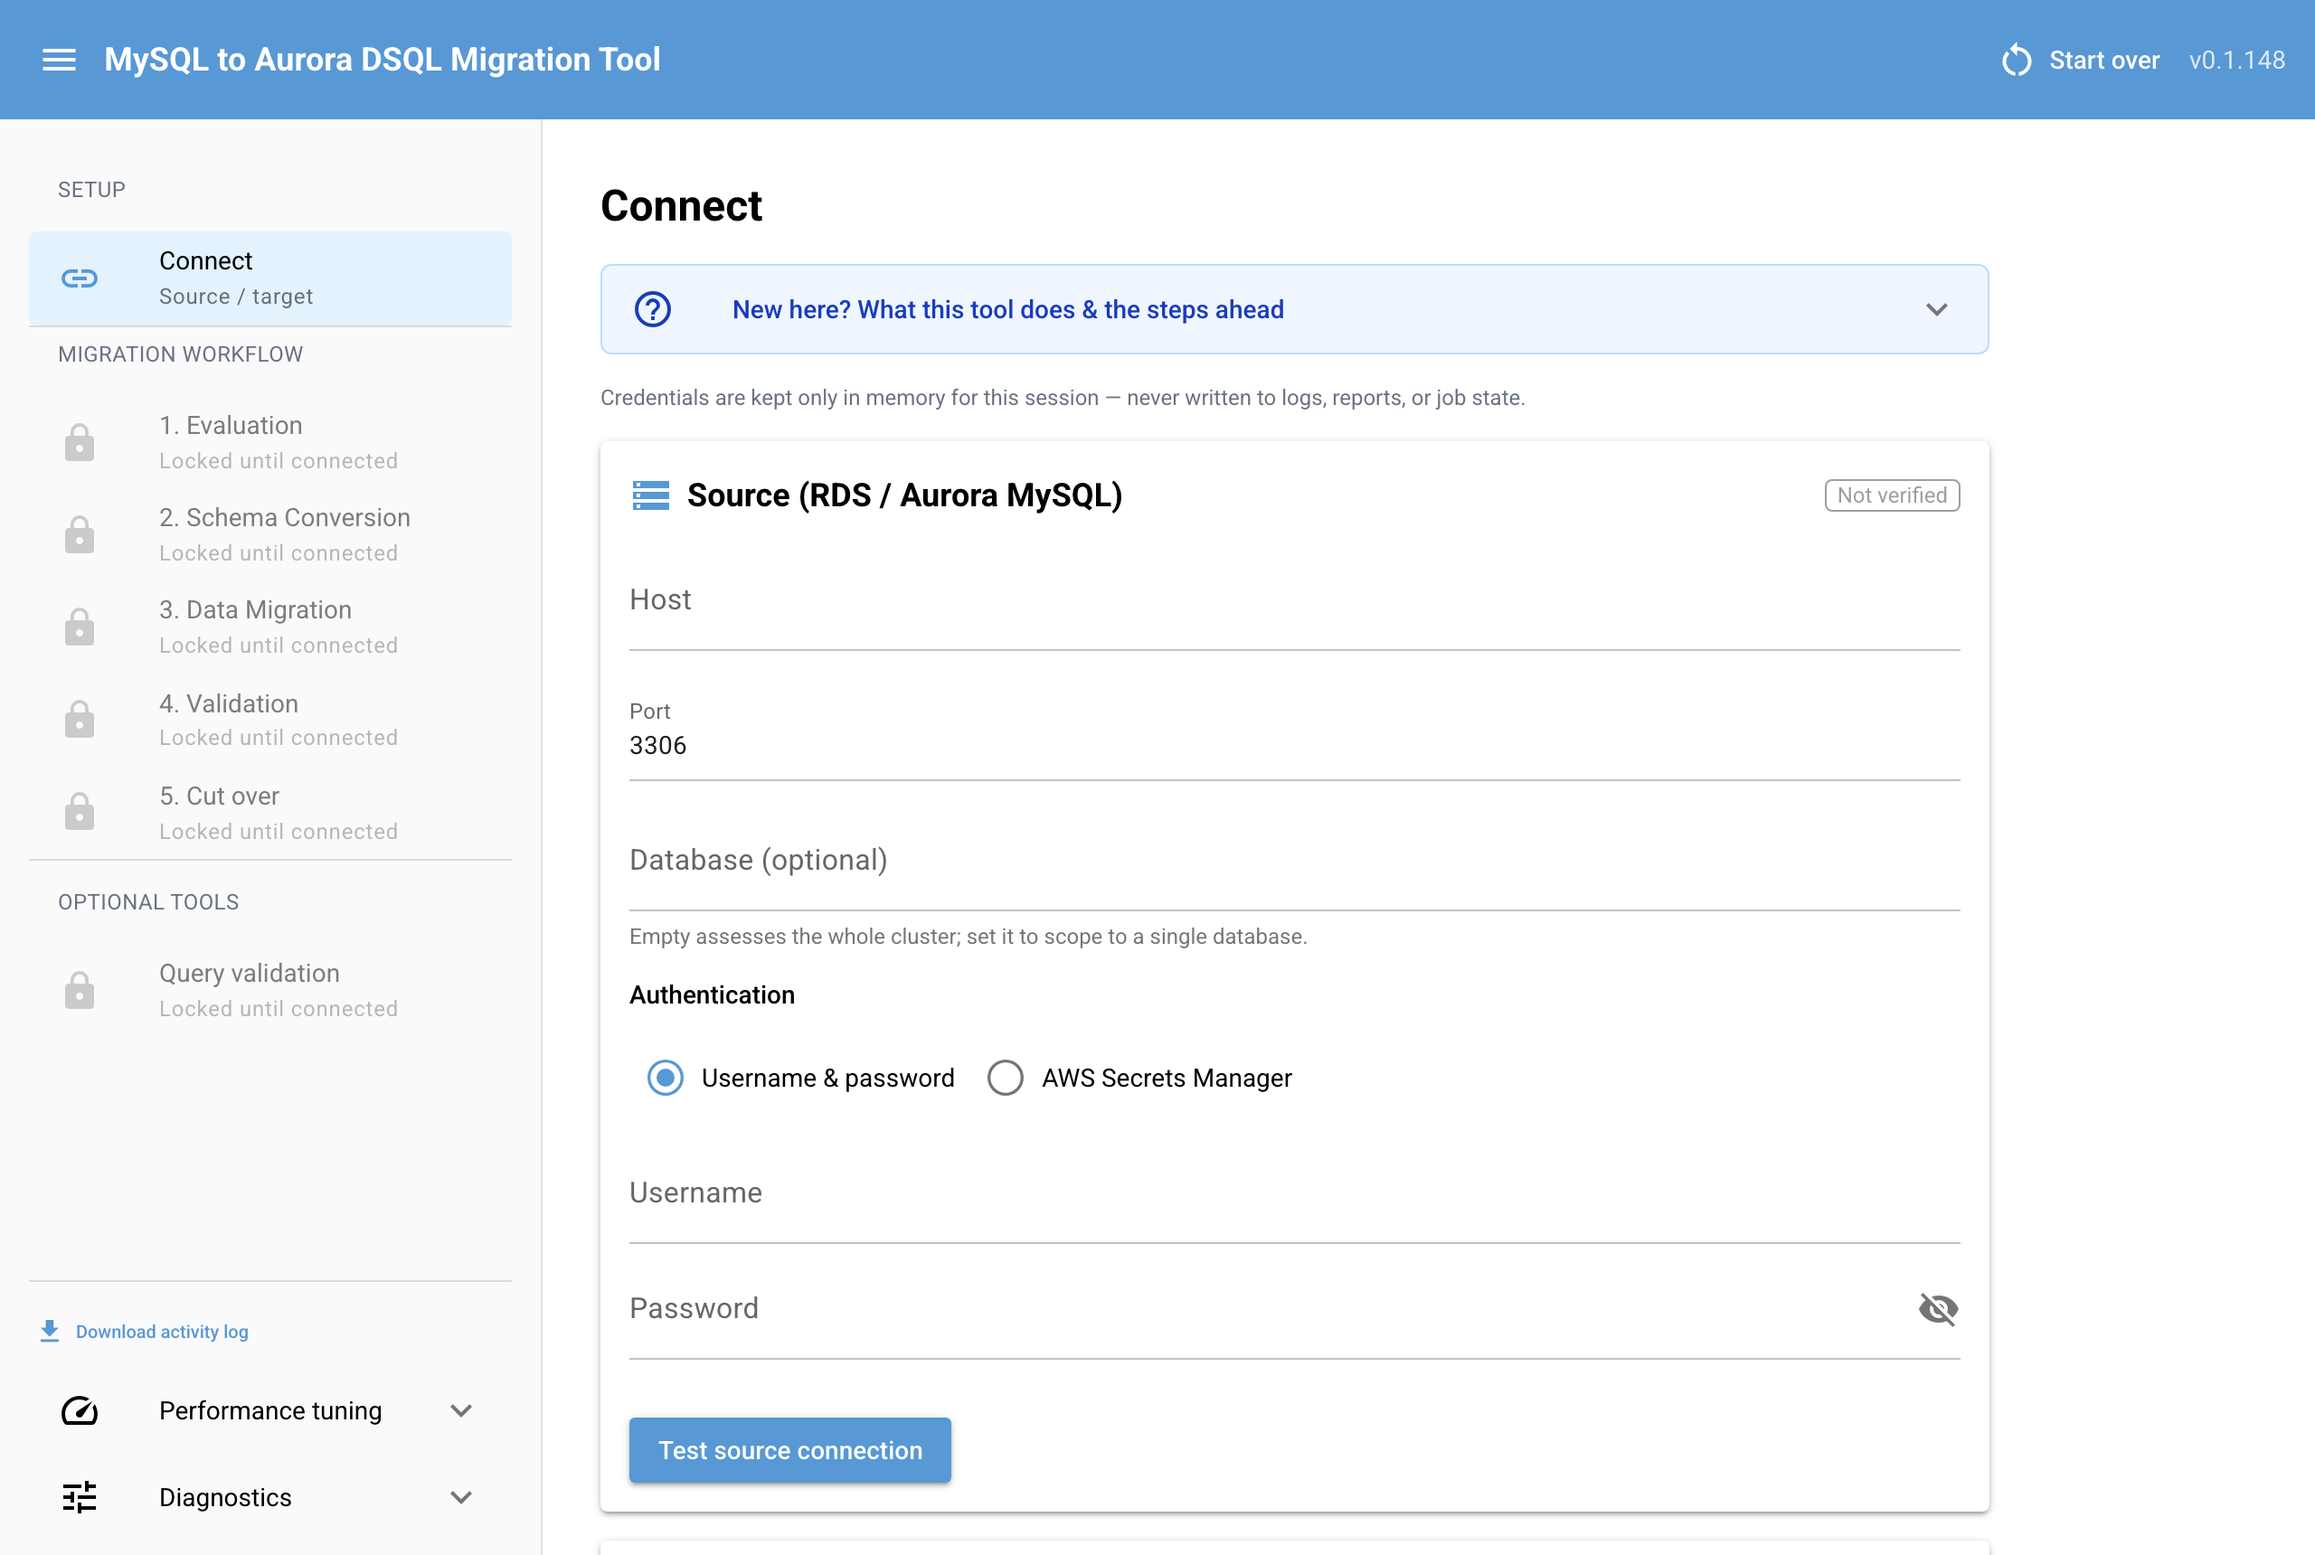
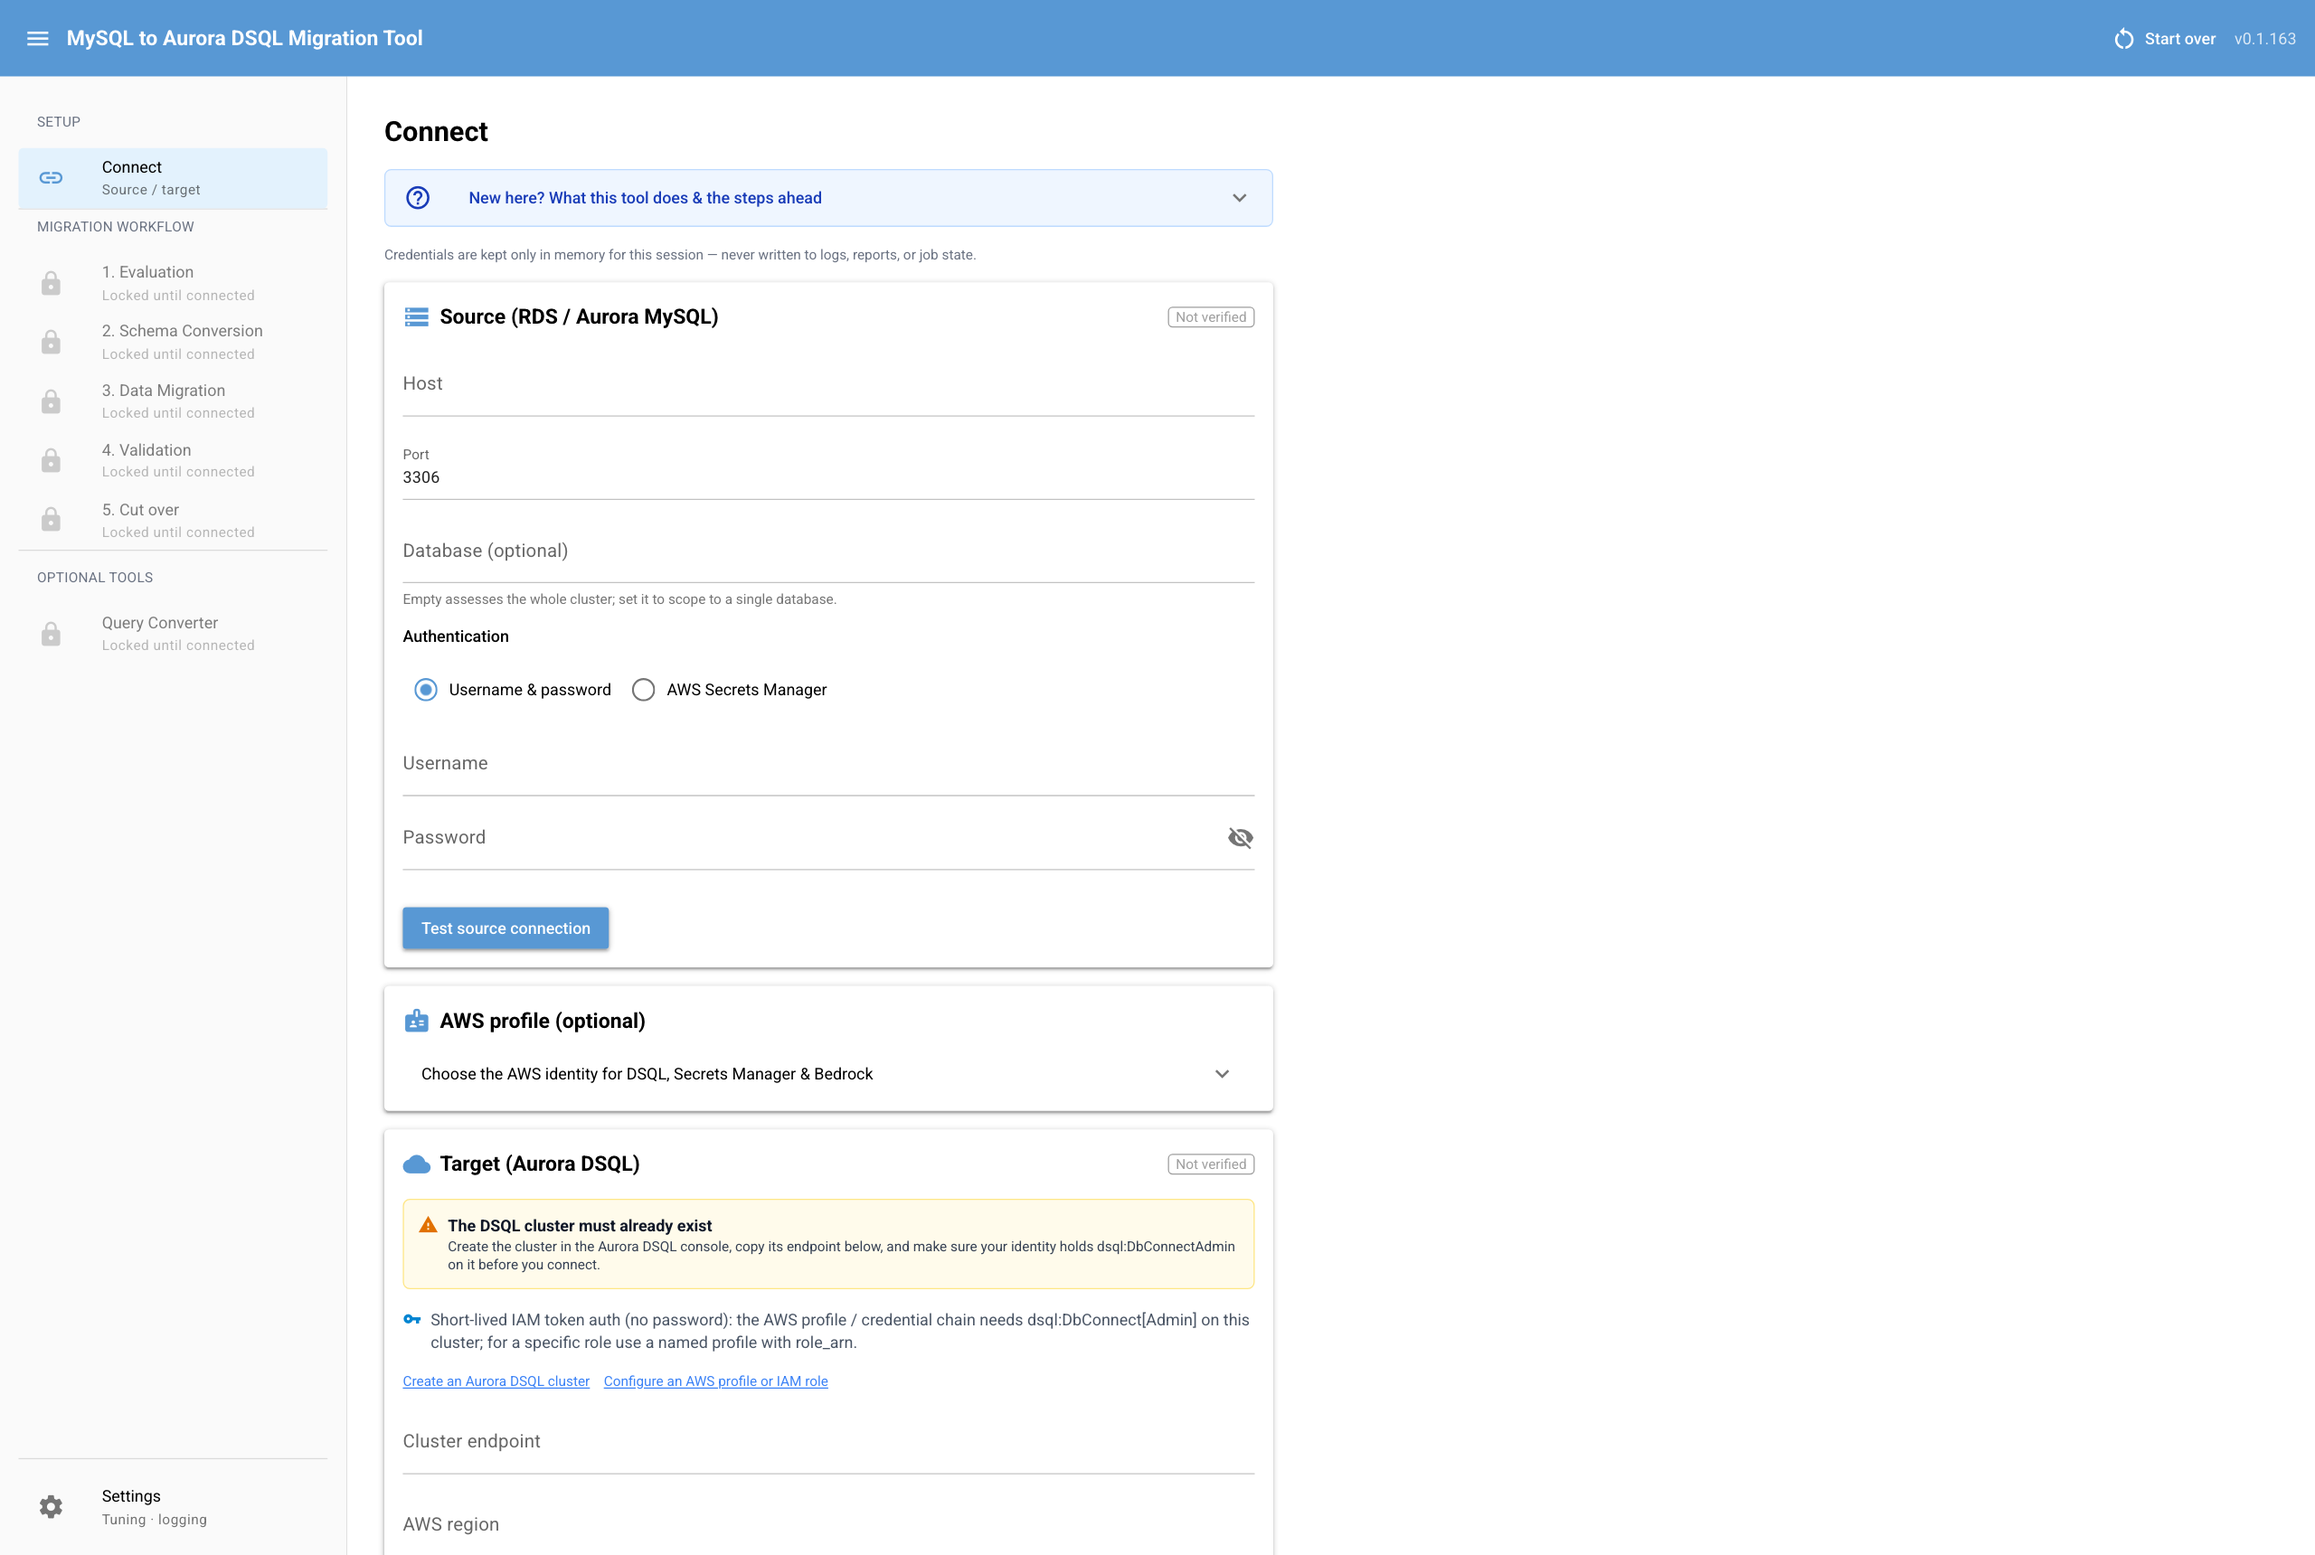
docs: align the manual/README/deployment guide with Query Converter + Settings
Follow-up to v0.1.162 (Query validation -> Query Converter) and v0.1.164 (the sidebar
footer utilities folded into one tabbed Settings dialog): the docs still named a menu
and a location that no longer exist.

- "Query Playground" / "Query validation" -> "Query Converter" in the three deployment
  guides (the manual was already updated in v0.1.162).
- Every "Performance tuning control in the sidebar footer (next to Diagnostics)" and
  "Diagnostics control (sidebar footer)" now points at Settings -> Performance /
  Settings -> Diagnostics, and the activity-log download at the Activity log tab.
  EN/KO/JA for both the manual and DEPLOYMENT.
- Recaptured docs/demo-ui.png: it showed "Query validation", the three separate footer
  rows, and v0.1.148. Same dimensions (2560x1720) as before.

No version bump: docs/assets only, no behavior change. The .env was moved aside for the
capture and restored byte-identical afterwards; input VALUES were checked explicitly
(inner_text does not include them -- that miss once leaked a real host into a committed
screenshot), and the only prefilled values in frame are the hardcoded DSQL defaults.

diff --git a/deploy/DEPLOYMENT.ko.md b/deploy/DEPLOYMENT.ko.md
@@ -314,7 +314,7 @@ aws cloudformation deploy \
 ```
 
 > **AI 어시스트(권장).** `EnableAiAssist=true` + `BedrockRegion`으로 Schema
-> Conversion과 Query Playground의 AI DBA를 켭니다 — 옵트인·자문 전용 기능이며,
+> Conversion과 Query Converter의 AI DBA를 켭니다 — 옵트인·자문 전용 기능이며,
 > 선택한 모델에 대한 `bedrock:InvokeModel`로만 범위가 제한됩니다. `BedrockModelId`
 > (기본 `us.anthropic.claude-sonnet-4-6`)에 대해 해당 리전 Bedrock 콘솔에서 **모델
 > 액세스를 활성화**해야 하고, 태스크가 Bedrock 엔드포인트로 egress할 수 있어야 합니다.
@@ -444,19 +444,19 @@ Evaluation → Schema Conversion → Data Migration → Validation → Cut over)
 #### 관측성 & 런타임 진단
 
 배포는 의도적으로 파라미터를 최소화합니다: **로그 레벨과 활동 로그의 CloudWatch 미러링은
-CloudFormation 파라미터가 아닙니다** — 앱의 **Diagnostics** 컨트롤(사이드바 푸터)에서 런타임에
+CloudFormation 파라미터가 아닙니다** — 앱의 **Settings → Diagnostics**(사이드바 푸터의 톱니)에서 런타임에
 조정하세요, 재배포 불필요:
 
 - **로그 레벨** — 문제 해결 중 `INFO`/`DEBUG` 전환(DEBUG는 실패 이벤트에 Python 스택트레이스 추가;
   행 값이나 자격증명은 절대 없음).
 - **Send to CloudWatch (stdout)** — 켜면 활동 로그를 stdout으로 스트리밍하고, 컨테이너의 `awslogs`
   드라이버가 이 스택의 CloudWatch 로그 그룹으로 전달(태스크 교체에도 살아남는 내구성 감사 사본).
-- **Download activity log** — 같은 푸터에서 전체 UTC, 이벤트당 한 줄 타임라인(연결 / 평가 / 스키마
-  적용 / Full Load / CDC)을 받기. 파일은 `/tmp`에서 크기 제한·회전됨.
+- **Download activity log** — 같은 다이얼로그의 **Activity log** 탭에서 전체 UTC, 이벤트당 한 줄
+  타임라인(연결 / 평가 / 스키마 적용 / Full Load / CDC)을 받기. 파일은 `/tmp`에서 크기 제한·회전됨.
 
 변경은 앱 전체(단일 태스크)에 적용되고 재시작 시 시작 기본값으로 리셋됩니다. 고급 운영자는
 `DSQL_MIGRATOR_LOG_LEVEL` / `DSQL_MIGRATOR_ACTIVITY_LOG_STDOUT` 환경 변수로 시작 기본값을 설정할 수
-있지만, Diagnostics 컨트롤이 의도된 경로입니다.
+있지만, Settings 다이얼로그가 의도된 경로입니다.
 
 ### 새 이미지 버전으로 업데이트
 
@@ -563,7 +563,7 @@ aws cloudformation delete-stack --stack-name mysql-dsql-migrator-build --region 
 | 앱이 소스 DB에 도달 못 함 | 소스 DB SG가 태스크 SG로부터 `SourceDbPort` 인바운드를 허용해야 함; `SourceDbSecurityGroupId`/`SourceDbCidr` 확인. |
 | DSQL 인증 에러 | `DsqlClusterArn` 범위, 리전(`DSQL_MIGRATOR_AWS_REGION`), task-role `dsql:DbConnect`. |
 | AI 켰을 때 Bedrock 에러 | `BedrockModelArns` 범위, `BedrockRegion`에서 모델 활성화, Bedrock 엔드포인트 egress. |
-| 실패 진단에 더 상세히 필요 | 앱 **Diagnostics** 컨트롤(사이드바 푸터)에서 로그 레벨을 `DEBUG`로 설정해 활동 로그 실패 이벤트에 Python 스택트레이스 추가; "Send to CloudWatch (stdout)"를 토글해 내구성 사본. 재배포 불필요. |
+| 실패 진단에 더 상세히 필요 | **Settings → Diagnostics**(사이드바 푸터의 톱니)에서 로그 레벨을 `DEBUG`로 설정해 활동 로그 실패 이벤트에 Python 스택트레이스 추가; "Send to CloudWatch (stdout)"를 토글해 내구성 사본. 재배포 불필요. |
 
 ### 보안 노트
 

diff --git a/deploy/DEPLOYMENT.md b/deploy/DEPLOYMENT.md
@@ -347,7 +347,7 @@ aws cloudformation deploy \
 ```
 
 > **AI assist (recommended).** `EnableAiAssist=true` + `BedrockRegion` turns on the
-> AI DBA for Schema Conversion and the Query Playground — an opt-in, advisory-only
+> AI DBA for Schema Conversion and the Query Converter — an opt-in, advisory-only
 > feature scoped to `bedrock:InvokeModel` for the selected model. You **must still
 > enable model access** for `BedrockModelId` (default
 > `us.anthropic.claude-sonnet-4-6`) in the Bedrock console for that region, and the
@@ -482,7 +482,8 @@ Conversion → Data Migration → Validation → Cut over).
 
 Deployment is deliberately parameter-light: **log level and CloudWatch
 mirroring of the activity log are not CloudFormation parameters** — adjust them
-at runtime from the app's **Diagnostics** control (sidebar footer), no redeploy:
+at runtime from **Settings → Diagnostics** in the app (the gear in the sidebar
+footer), no redeploy:
 
 - **Log level** — flip `INFO`/`DEBUG` while troubleshooting (DEBUG adds Python
   stacktraces to failure events; never row values or credentials).
@@ -490,13 +491,14 @@ at runtime from the app's **Diagnostics** control (sidebar footer), no redeploy:
   stdout, which the container's `awslogs` driver forwards to this stack's
   CloudWatch log group (a durable audit copy that survives task replacement).
 - **Download activity log** — pull the full UTC, one-line-per-event timeline
-  (connection / assessment / schema apply / Full Load / CDC) from the same
-  footer. The file is size-capped and rotated on `/tmp`.
+  (connection / assessment / schema apply / Full Load / CDC) from the
+  **Activity log** tab of the same dialog. The file is size-capped and rotated
+  on `/tmp`.
 
 Changes apply app-wide (single task) and reset to startup defaults on restart;
 advanced operators can set the startup defaults via the
 `DSQL_MIGRATOR_LOG_LEVEL` / `DSQL_MIGRATOR_ACTIVITY_LOG_STDOUT` environment
-variables, but the Diagnostics control is the intended path.
+variables, but the Settings dialog is the intended path.
 
 ### Update to a new image version
 
@@ -611,7 +613,7 @@ aws cloudformation delete-stack --stack-name mysql-dsql-migrator-build --region 
 | App cannot reach the source DB | Source DB SG must allow inbound on `SourceDbPort` from the task SG; verify `SourceDbSecurityGroupId`/`SourceDbCidr`. |
 | DSQL auth errors | `DsqlClusterArn` scope, region (`DSQL_MIGRATOR_AWS_REGION`), and task-role `dsql:DbConnect`. |
 | Bedrock errors when AI on | `BedrockModelArns` scope, model enabled in `BedrockRegion`, and egress to the Bedrock endpoint. |
-| Need more detail when diagnosing a failure | Set log level to `DEBUG` in the app's **Diagnostics** control (sidebar footer) to add Python stacktraces to activity-log failure events; toggle "Send to CloudWatch (stdout)" for a durable copy. No redeploy. |
+| Need more detail when diagnosing a failure | Set log level to `DEBUG` under **Settings → Diagnostics** (the gear in the sidebar footer) to add Python stacktraces to activity-log failure events; toggle "Send to CloudWatch (stdout)" for a durable copy. No redeploy. |
 
 ### Security notes
 

diff --git a/README.md b/README.md
@@ -274,7 +274,7 @@ this.** The full environment-variable reference (for automation / tuning) is bel
 Read from environment variables (no config file, no persisted credentials). On
 Fargate, set these in the ECS task definition. The four Full Load / Validation
 parallelism knobs can also be retuned **at runtime** from the sidebar's
-**Performance tuning** control (no redeploy; resets on restart).
+**Settings → Performance** tab (no redeploy; resets on restart).
 
 | Variable | Default | Description |
 | --- | --- | --- |
@@ -294,8 +294,8 @@ parallelism knobs can also be retuned **at runtime** from the sidebar's
 | `DSQL_MIGRATOR_FULL_LOAD_READER_SHARDS` | `1` (off, ≤8) | Split one large single-integer-PK table's read across K concurrent readers. Rarely worth it (the reader is GIL-bound) — see manual §7.2. |
 | `DSQL_MIGRATOR_FULL_LOAD_SHARD_MIN_ROWS` | `1000000` | Minimum estimated rows for a table to be reader-sharded; smaller tables always use one reader. |
 | `DSQL_MIGRATOR_VALIDATE_MAX_WORKERS` | `4` (≤32) | Tables compared concurrently in Validation. `1` = sequential. |
-| `DSQL_MIGRATOR_LOG_LEVEL` | `INFO` | Startup log level; `DEBUG` adds a stacktrace (call stack only) to failure events. Also changeable at runtime via **Diagnostics**. |
-| `DSQL_MIGRATOR_ACTIVITY_LOG_STDOUT` | `false` | Mirror activity-log events to stdout (→ CloudWatch on ECS). Also toggleable at runtime via **Diagnostics**. |
+| `DSQL_MIGRATOR_LOG_LEVEL` | `INFO` | Startup log level; `DEBUG` adds a stacktrace (call stack only) to failure events. Also changeable at runtime via **Settings → Diagnostics**. |
+| `DSQL_MIGRATOR_ACTIVITY_LOG_STDOUT` | `false` | Mirror activity-log events to stdout (→ CloudWatch on ECS). Also toggleable at runtime via **Settings → Diagnostics**. |
 | `BEDROCK_MODEL_ID` | `global.anthropic.claude-sonnet-4-6` | Bedrock model / inference-profile id for AI assist. The `global.*` profile is reachable from any commercial region; a `us.*` profile is US-only. |
 | `BEDROCK_REGION` | _(unset)_ | Region for Amazon Bedrock calls. |
 

diff --git a/docs/manual/en/07-performance-and-tuning.md b/docs/manual/en/07-performance-and-tuning.md
@@ -305,8 +305,8 @@ own task definition) and redeploy. The CDC knobs are cdc-stack CloudFormation
 parameters, passed when the tool deploys the cdc-stack.
 
 > **Retune between runs without redeploying.** For iterating on these Full Load /
-> Validation values, use the **Performance tuning** control in the sidebar footer
-> (next to Diagnostics): the loader and validator re-read the config on every run,
+> Validation values, open **Settings** in the sidebar footer and go to the
+> **Performance** tab: the loader and validator re-read the config on every run,
 > so a value you set there applies to the **next** Full Load / Validation
 > immediately — no task-definition edit or redeploy. It is app-wide (single-task
 > app) and resets to the deploy/startup values on restart, so set the
@@ -349,8 +349,8 @@ and `BATCH_ROWS` raise **DSQL write** pressure, not source read load; leave them
 unless DSQL is the bottleneck. (The source read **page size is fixed at 1000 rows**
 and is not tunable — table parallelism is your only source-read throttle.)
 
-> Set it in the **Performance tuning** sidebar control to experiment between runs,
-> or as the env var to persist it (see §7.2).
+> Set it under **Settings → Performance** to experiment between runs, or as the env
+> var to persist it (see §7.2).
 
 ### Start conservative, then tune under observation
 
